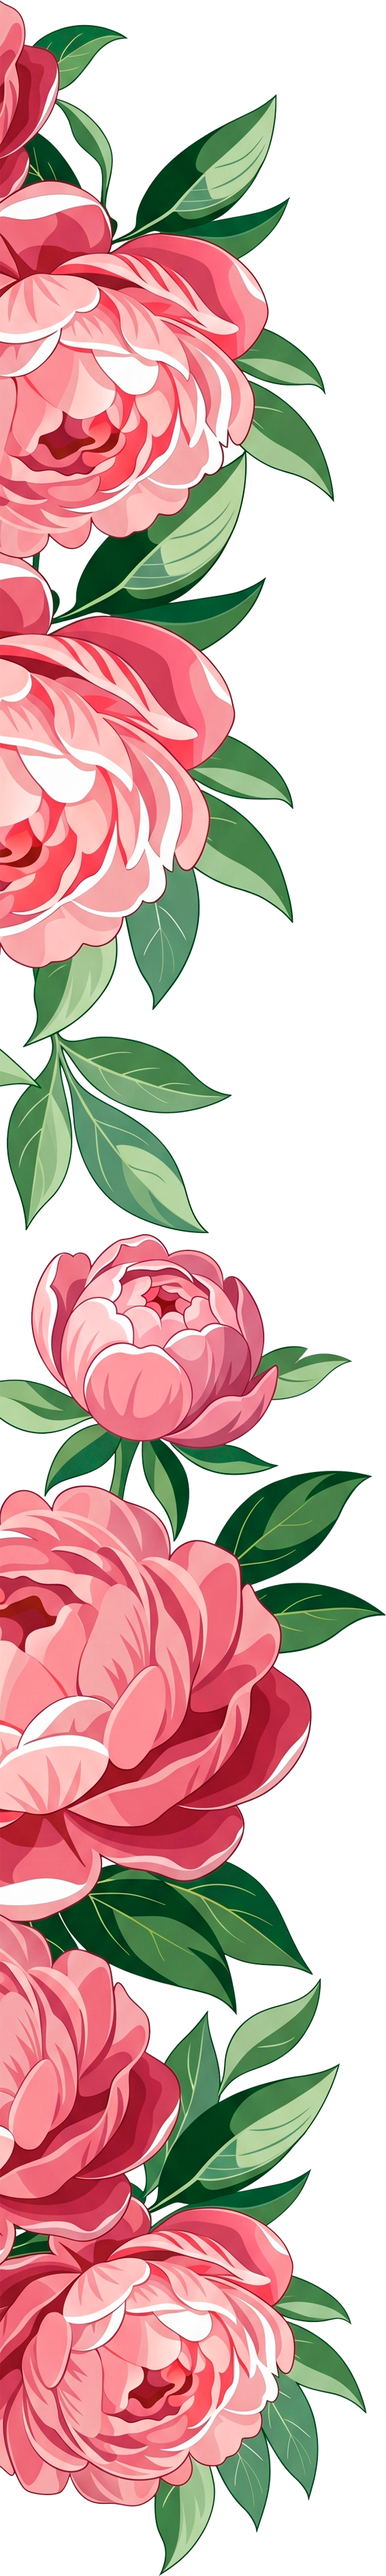
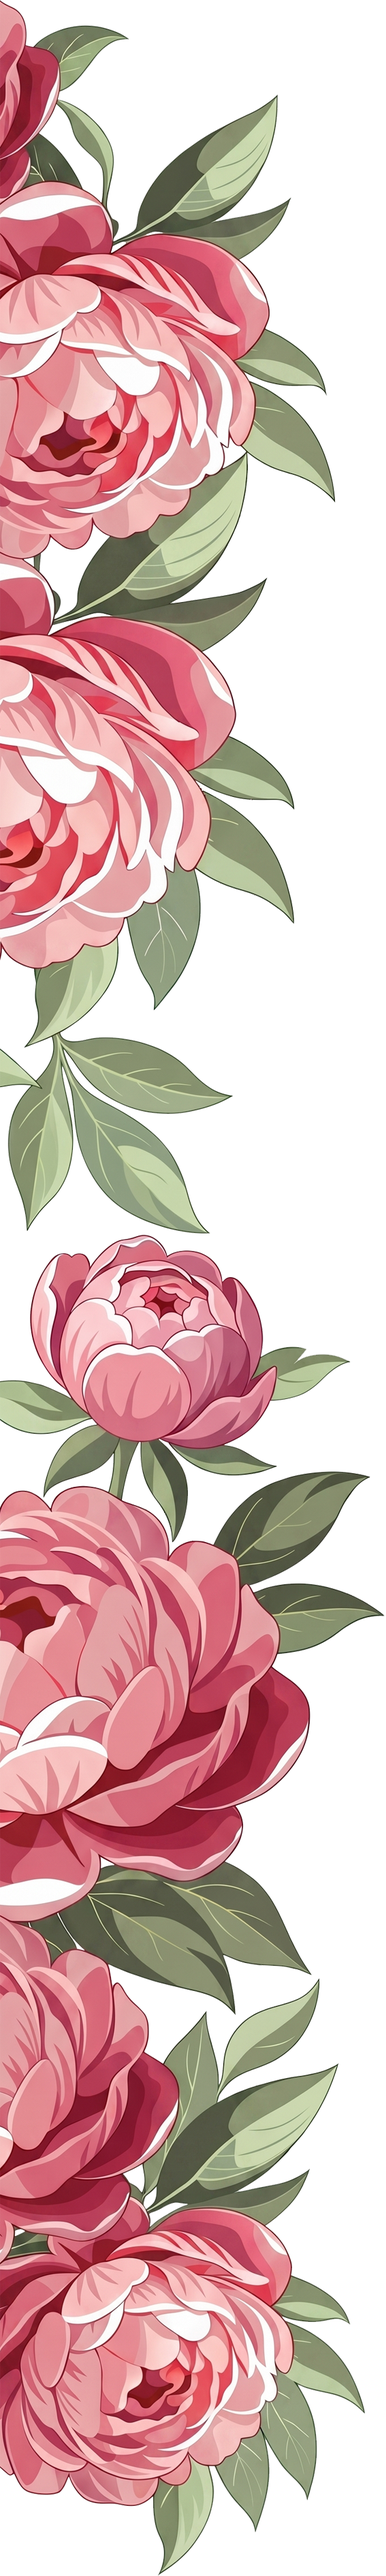
Actualización - Cambio de color en el arte floral y diseño de iconos florales dentro de tarjetas además de validación de formulario con link personalizado.

diff --git a/index.html b/index.html
@@ -243,7 +243,7 @@
                             <!-- La Fiesta -->
                             <div class="pausar-linterna bg-surface-container-lowest/40 backdrop-blur-xl border-t border-l border-white/60 shadow-xl rounded-[1.5rem] p-8 md:p-12 relative z-20 overflow-hidden flex flex-col justify-center text-center">
 
-                                <svg class="absolute -top-12 -left-12 w-72 h-72 text-tertiary opacity-[0.08] z-0 transform -rotate-45 pointer-events-none"
+                                <svg class="absolute -top-12 -left-12 w-72 h-72 text-tertiary opacity-10 z-0 transform -rotate-45 pointer-events-none"
                                      viewBox="0 0 24 24" fill="currentColor" xmlns="http://www.w3.org/2000/svg">
                                     <path d="M12 2C8 2 4 5 4 9C4 11.2 5.2 13 6.8 14.2C5.5 15.5 3 17 3 17C6 17 8.5 15.5 10 14.5C10.6 14.8 11.3 15 12 15C16 15 20 12 20 8C20 4 16 2 12 2ZM12 13C8.5 13 6 10.5 6 9C6 6.5 8.5 4 12 4C15.5 4 18 6.5 18 8C18 10.5 15.5 13 12 13Z"/>
                                     <path d="M14 20C14 20 12 22 12 22C12 22 10 20 10 18C10 16 12 15 12 15C12 15 14 16 14 18C14 20 14 20 14 20Z"/>
@@ -294,7 +294,7 @@
                             <div class="pausar-linterna bg-surface-container-lowest/40 backdrop-blur-xl border-t border-l border-white/60 shadow-xl rounded-[1.5rem] p-8 md:p-12 relative z-20 overflow-hidden col-span-1 md:col-span-2 justify-self-center w-full max-w-2xl flex flex-col items-center justify-center text-center mt-2">
 
                                 <!-- Arte botánico de fondo -->
-                                <svg class="absolute top-1/2 left-1/2 -translate-x-1/2 -translate-y-1/2 w-96 h-96 text-tertiary opacity-[0.03] z-0 pointer-events-none"
+                                <svg class="absolute -top-16 -right-16 w-64 h-64 text-tertiary opacity-10 z-0 transform -rotate-135 pointer-events-none"
                                      viewBox="0 0 24 24" fill="currentColor" xmlns="http://www.w3.org/2000/svg">
                                     <path d="M12 2C8 2 4 5 4 9C4 11.2 5.2 13 6.8 14.2C5.5 15.5 3 17 3 17C6 17 8.5 15.5 10 14.5C10.6 14.8 11.3 15 12 15C16 15 20 12 20 8C20 4 16 2 12 2ZM12 13C8.5 13 6 10.5 6 9C6 6.5 8.5 4 12 4C15.5 4 18 6.5 18 8C18 10.5 15.5 13 12 13Z"/>
                                     <path d="M14 20C14 20 12 22 12 22C12 22 10 20 10 18C10 16 12 15 12 15C12 15 14 16 14 18C14 20 14 20 14 20Z"/>
@@ -320,7 +320,7 @@
                                         <p class="text-[9px] md:text-[10px] font-bold uppercase tracking-widest text-primary mb-5 text-center opacity-80 leading-relaxed">
                                             Detalles Exclusivos para<br>Damas de Honor y Amigos del Novio
                                         </p>
-                                        <div class="flex flex-col gap-4 text-xs text-left">
+                                        <div class="flex flex-col gap-4 text-xs w-fit mx-auto">
                                             <!-- Regla Damas -->
                                             <div class="flex items-center gap-4">
                                                 <div class="w-4 h-4 rounded-full bg-tertiary shadow-sm shrink-0"></div>
@@ -380,7 +380,7 @@
                             <path d="M14 20C14 20 12 22 12 22C12 22 10 20 10 18C10 16 12 15 12 15C12 15 14 16 14 18C14 20 14 20 14 20Z"/>
                         </svg>
 
-                        <svg class="absolute -top-16 -right-16 w-64 h-64 text-tertiary opacity-[0.06] z-0 transform -rotate-135 pointer-events-none"
+                        <svg class="absolute -top-16 -right-16 w-64 h-64 text-tertiary opacity-10 z-0 transform -rotate-135 pointer-events-none"
                              viewBox="0 0 24 24" fill="currentColor" xmlns="http://www.w3.org/2000/svg">
                             <path d="M12 2C8 2 4 5 4 9C4 11.2 5.2 13 6.8 14.2C5.5 15.5 3 17 3 17C6 17 8.5 15.5 10 14.5C10.6 14.8 11.3 15 12 15C16 15 20 12 20 8C20 4 16 2 12 2ZM12 13C8.5 13 6 10.5 6 9C6 6.5 8.5 4 12 4C15.5 4 18 6.5 18 8C18 10.5 15.5 13 12 13Z"/>
                             <path d="M14 20C14 20 12 22 12 22C12 22 10 20 10 18C10 16 12 15 12 15C12 15 14 16 14 18C14 20 14 20 14 20Z"/>
@@ -464,7 +464,7 @@
                     <path d="M14 20C14 20 12 22 12 22C12 22 10 20 10 18C10 16 12 15 12 15C12 15 14 16 14 18C14 20 14 20 14 20Z"/>
                 </svg>
 
-                <svg class="absolute -top-16 -right-16 w-64 h-64 text-tertiary opacity-[0.06] z-0 transform -rotate-135 pointer-events-none"
+                <svg class="absolute -top-16 -right-16 w-64 h-64 text-tertiary opacity-10 z-0 transform -rotate-135 pointer-events-none"
                      viewBox="0 0 24 24" fill="currentColor" xmlns="http://www.w3.org/2000/svg">
                     <path d="M12 2C8 2 4 5 4 9C4 11.2 5.2 13 6.8 14.2C5.5 15.5 3 17 3 17C6 17 8.5 15.5 10 14.5C10.6 14.8 11.3 15 12 15C16 15 20 12 20 8C20 4 16 2 12 2ZM12 13C8.5 13 6 10.5 6 9C6 6.5 8.5 4 12 4C15.5 4 18 6.5 18 8C18 10.5 15.5 13 12 13Z"/>
                     <path d="M14 20C14 20 12 22 12 22C12 22 10 20 10 18C10 16 12 15 12 15C12 15 14 16 14 18C14 20 14 20 14 20Z"/>
@@ -675,6 +675,13 @@
                     </div>
                     <p class="text-center text-xs uppercase tracking-[0.2em] mb-12 font-bold opacity-60">¿Asistirás a
                         nuestra boda?</p>
+
+                    <div id="rsvp-fallback" class="hidden text-center bg-surface-variant/20 border border-primary/20 rounded-xl p-8 mb-6 shadow-inner mx-auto max-w-md">
+                        <span class="material-symbols-outlined text-4xl text-primary mb-3">link_off</span>
+                        <p class="text-xs md:text-sm text-on-surface-variant leading-relaxed">
+                            Para proteger la lista de invitados, la confirmación solo está habilitada a través del <strong class="text-primary">enlace personalizado</strong> que fue enviado por WhatsApp.
+                        </p>
+                    </div>
 
                     <form id="formulario-rsvp" class="space-y-6">
                         <div class="space-y-1">

diff --git a/static/js/index.js b/static/js/index.js
@@ -12,6 +12,10 @@ document.addEventListener('DOMContentLoaded', () => {
         const urlParams = new URLSearchParams(window.location.search);
         const vipHash = urlParams.get('vip');
 
+        // NUEVO: Capturamos los nodos del formulario y la advertencia de seguridad
+        const form = document.getElementById('formulario-rsvp');
+        const fallback = document.getElementById('rsvp-fallback');
+
         if (vipHash && listaInvitados[vipHash]) {
             const invitado = listaInvitados[vipHash];
 
@@ -41,6 +45,10 @@ document.addEventListener('DOMContentLoaded', () => {
                 label.appendChild(span);
                 contenedorNombres.appendChild(label);
             }
+        } else {
+            // NUEVO: ESTADO NO AUTENTICADO (Ocultamos el form y mostramos la advertencia)
+            if (form) form.style.display = 'none';
+            if (fallback) fallback.classList.remove('hidden');
         }
     };
 
